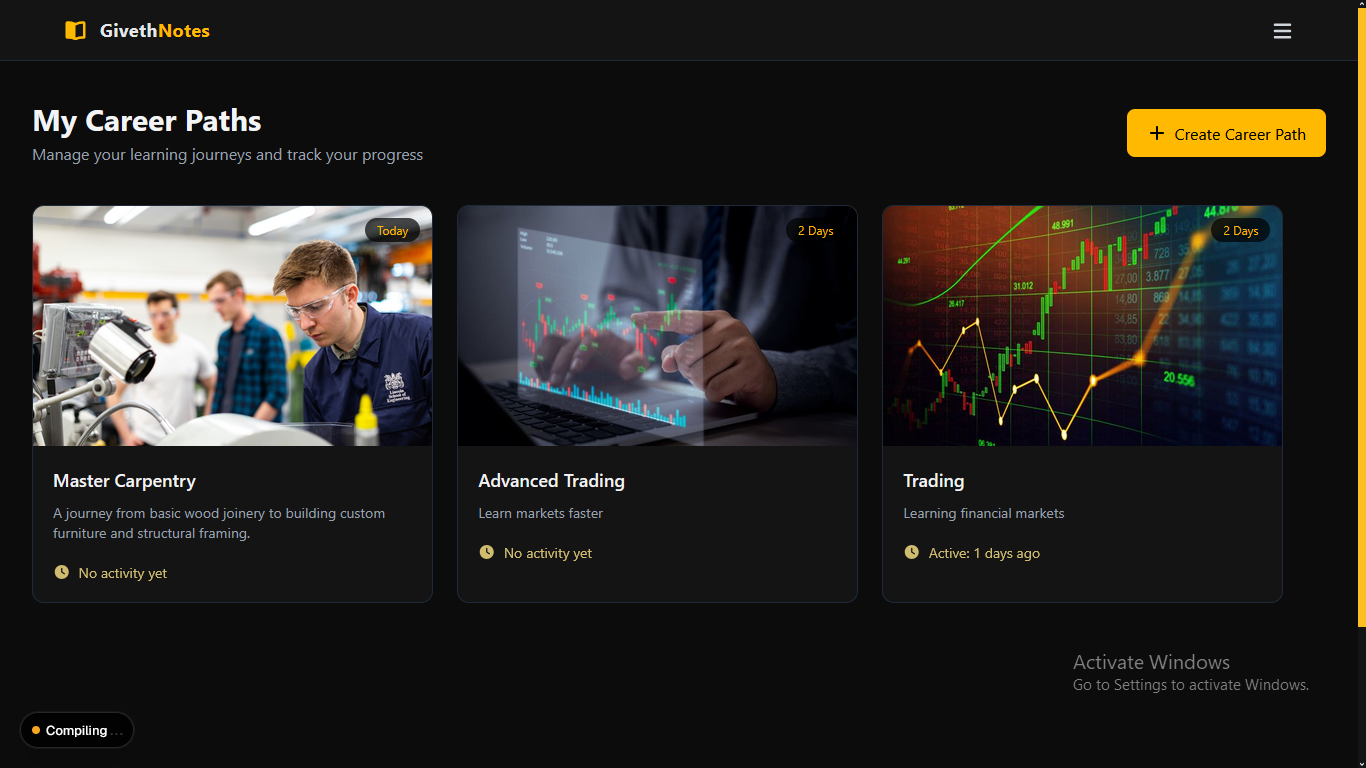
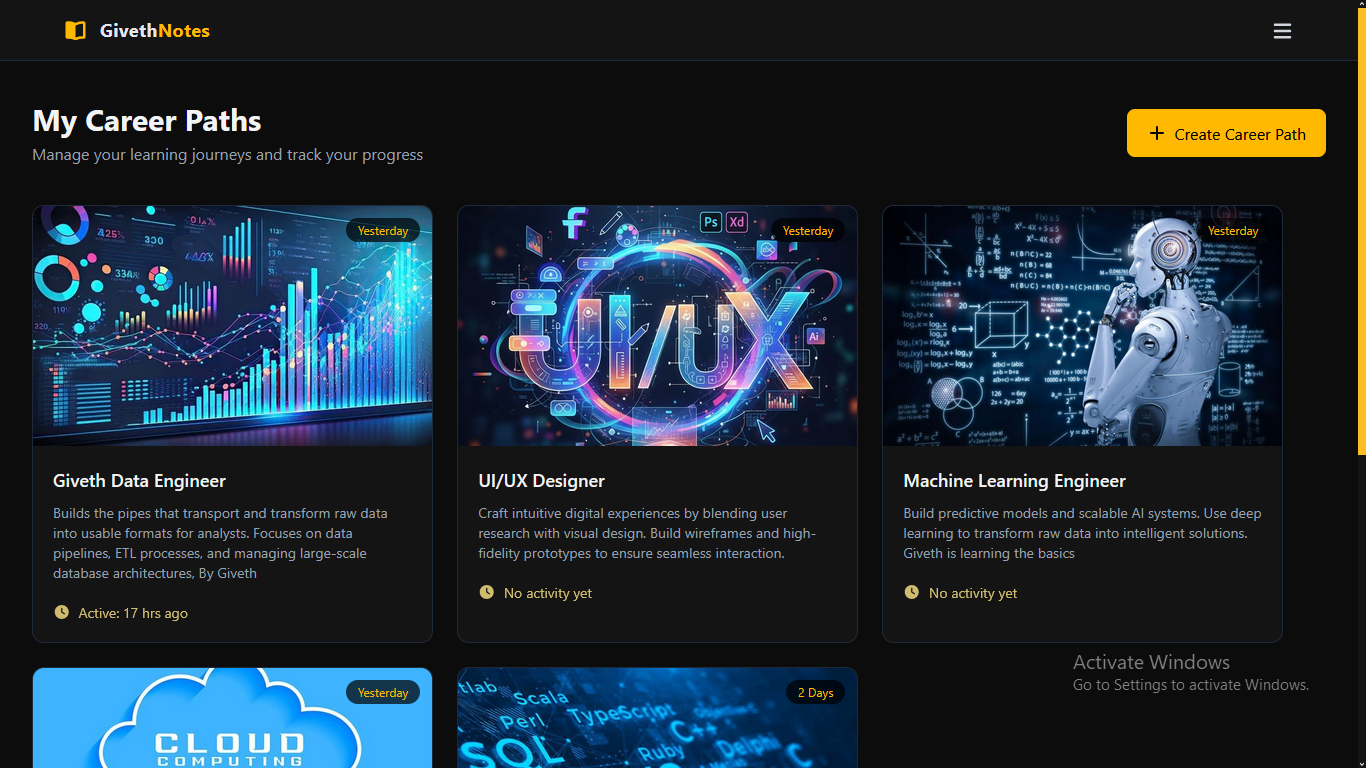
Updated the README.md file. Updated the dashboard image in the public folder

diff --git a/README.md b/README.md
@@ -48,6 +48,10 @@ This project is built with Next.js using the App Router. Below is a brief overvi
 - **Sign In (`app/sign-in/[[...sign-in]]/page.js`)**: Sign in UI powered by Clerk, available at `/sign-in`. After sign-in users are redirected to `/dashboard`.
 - **Sign Up (`app/sign-up/[[...sign-up]]/page.js`)**: Sign up UI powered by Clerk, available at `/sign-up`. After sign-up users are redirected to `/dashboard`.
 - **Dashboard (`app/dashboard/page.js`)**: User dashboard and private area (intended for authenticated users).
+- **Create Career Path (`app/career_paths/create/page.js`)**: A client-side form to create a new career path. It posts to `
+  `${process.env.NEXT_PUBLIC_API_BASE_URL}/api/career-paths`
+  ` using `axios` and shows success/error feedback with `sonner` toasts. Requires authentication.
+- **Edit Career Path (`app/career_paths/[id]/edit/page.js`)**: Edit page that first fetches the career path via `GET /api/career-paths/:id` to pre-fill the form, supports updating via `PUT /api/career-paths/:id`, and allows deleting via `DELETE /api/career-paths/:id` (deletion is confirmed via a styled modal and shows server messages using `sonner`).
 
 ### Components
 - **Navbar (`app/components/Navbar.js`)**: A sticky navigation bar that includes the GivethNotes logo and a call-to-action button.
@@ -56,6 +60,13 @@ This project is built with Next.js using the App Router. Below is a brief overvi
 
 ### API Routes
 - **Quote API (`app/api/quote/route.js`)**: A server-side route that proxies requests to `zenquotes.io` to provide fresh daily quotes while avoiding CORS issues.
+- **Career Paths (external API)**: The frontend interacts with a career-paths API via the base URL configured in `NEXT_PUBLIC_API_BASE_URL`. Endpoints used by the UI:
+  - `POST /api/career-paths` — create a career path (used by `app/career_paths/create/page.js`).
+  - `GET /api/career-paths/:id` — fetch a single career path (used by `app/career_paths/[id]/edit/page.js`).
+  - `PUT /api/career-paths/:id` — update a career path (used by `app/career_paths/[id]/edit/page.js`).
+  - `DELETE /api/career-paths/:id` — delete a career path (used by `app/career_paths/[id]/edit/page.js`).
+
+  Note: Requests include an `Authorization: Bearer <token>` header obtained with Clerk's `getToken()` in the frontend; the base URL is read from `NEXT_PUBLIC_API_BASE_URL`.
 
 ### Other
 - **Icons (`app/icons/page.js`)**: A simple page demonstrating the usage of FontAwesome icons within the project.
@@ -119,6 +130,13 @@ The following changes were implemented during recent UI and routing improvements
   - File: `app/dashboard/page.js`
   - `clickCard` was updated to encode the id before routing: `router.push(`/career_paths/${encodeId(id)}`)`.
   - The dashboard still fetches and displays career paths from the API and activity timestamps; images in the dashboard remain `<img>` for now (you can switch them to `next/image` later if desired and add the remote host config if needed).
+
+- **Create / Edit / Delete Career Paths (new)**
+  - Files:
+    - `app/career_paths/create/page.js` — creation form; sends `POST` to `/api/career-paths` and shows `sonner` toasts on success/error.
+    - `app/career_paths/[id]/edit/page.js` — edit form; fetches via `GET /api/career-paths/:id`, updates via `PUT /api/career-paths/:id`, and deletes via `DELETE /api/career-paths/:id`.
+  - UX details: the edit page pre-fills fields from the fetched data, displays success and error messages via `sonner` toasts, and uses a styled confirmation modal for delete. On successful delete the server message is displayed via `toast.success` and the UI redirects to `/dashboard` after a short delay.
+  - Auth & API: All write operations include `Authorization: Bearer <token>` obtained with `getToken()` from Clerk; the frontend reads the API base from `NEXT_PUBLIC_API_BASE_URL`.
 
 ## How to use the obfuscation helpers
 
